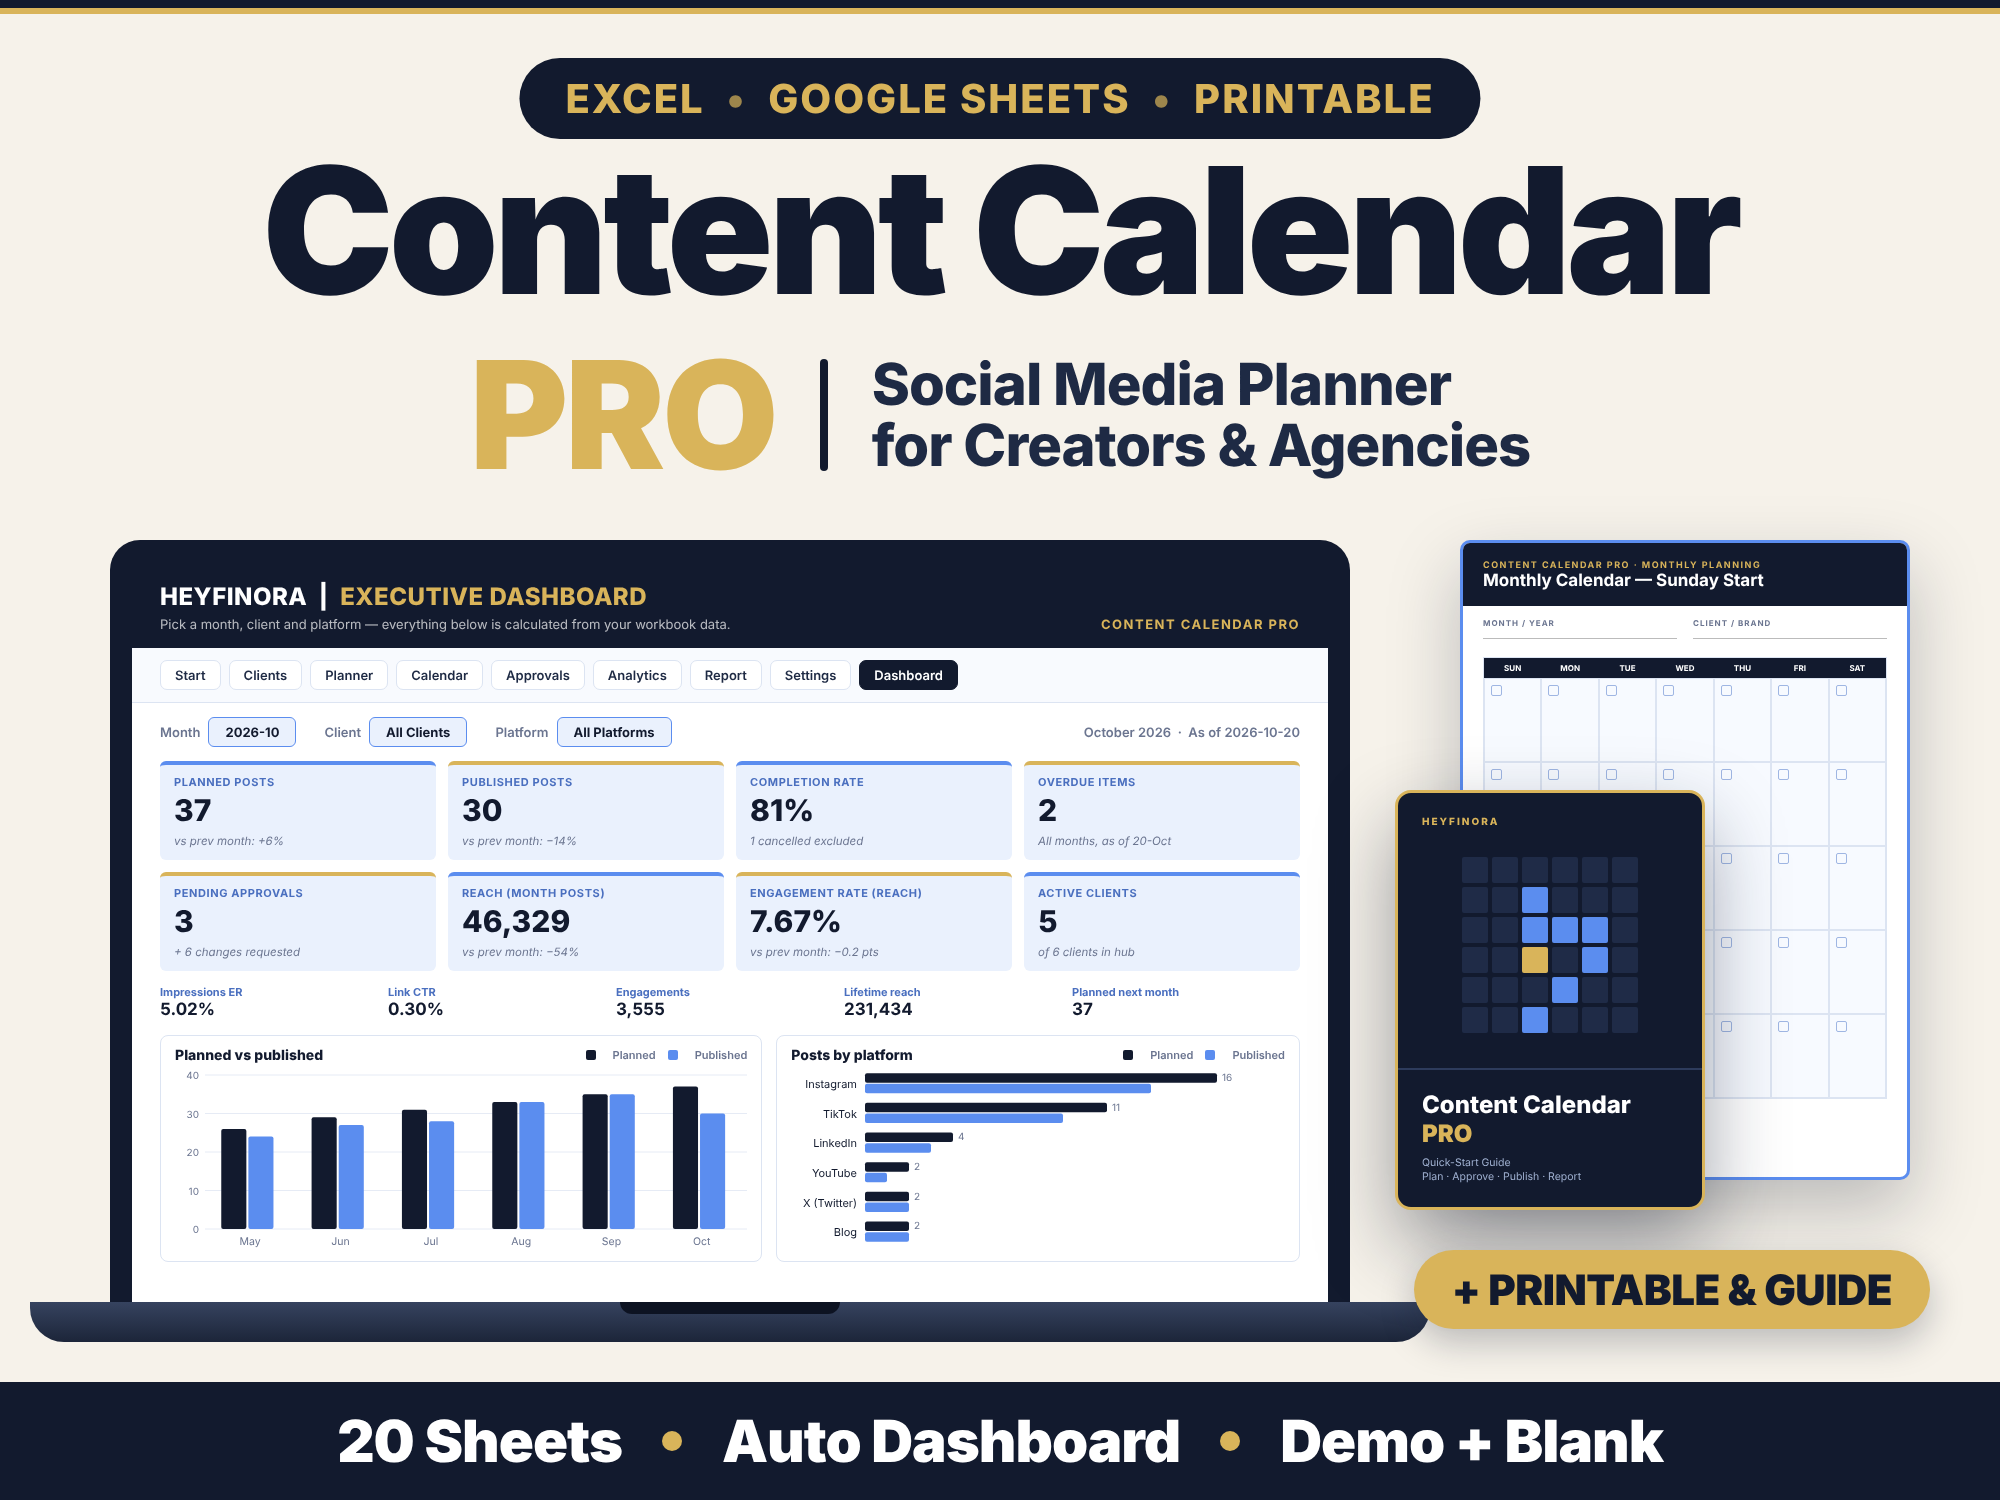
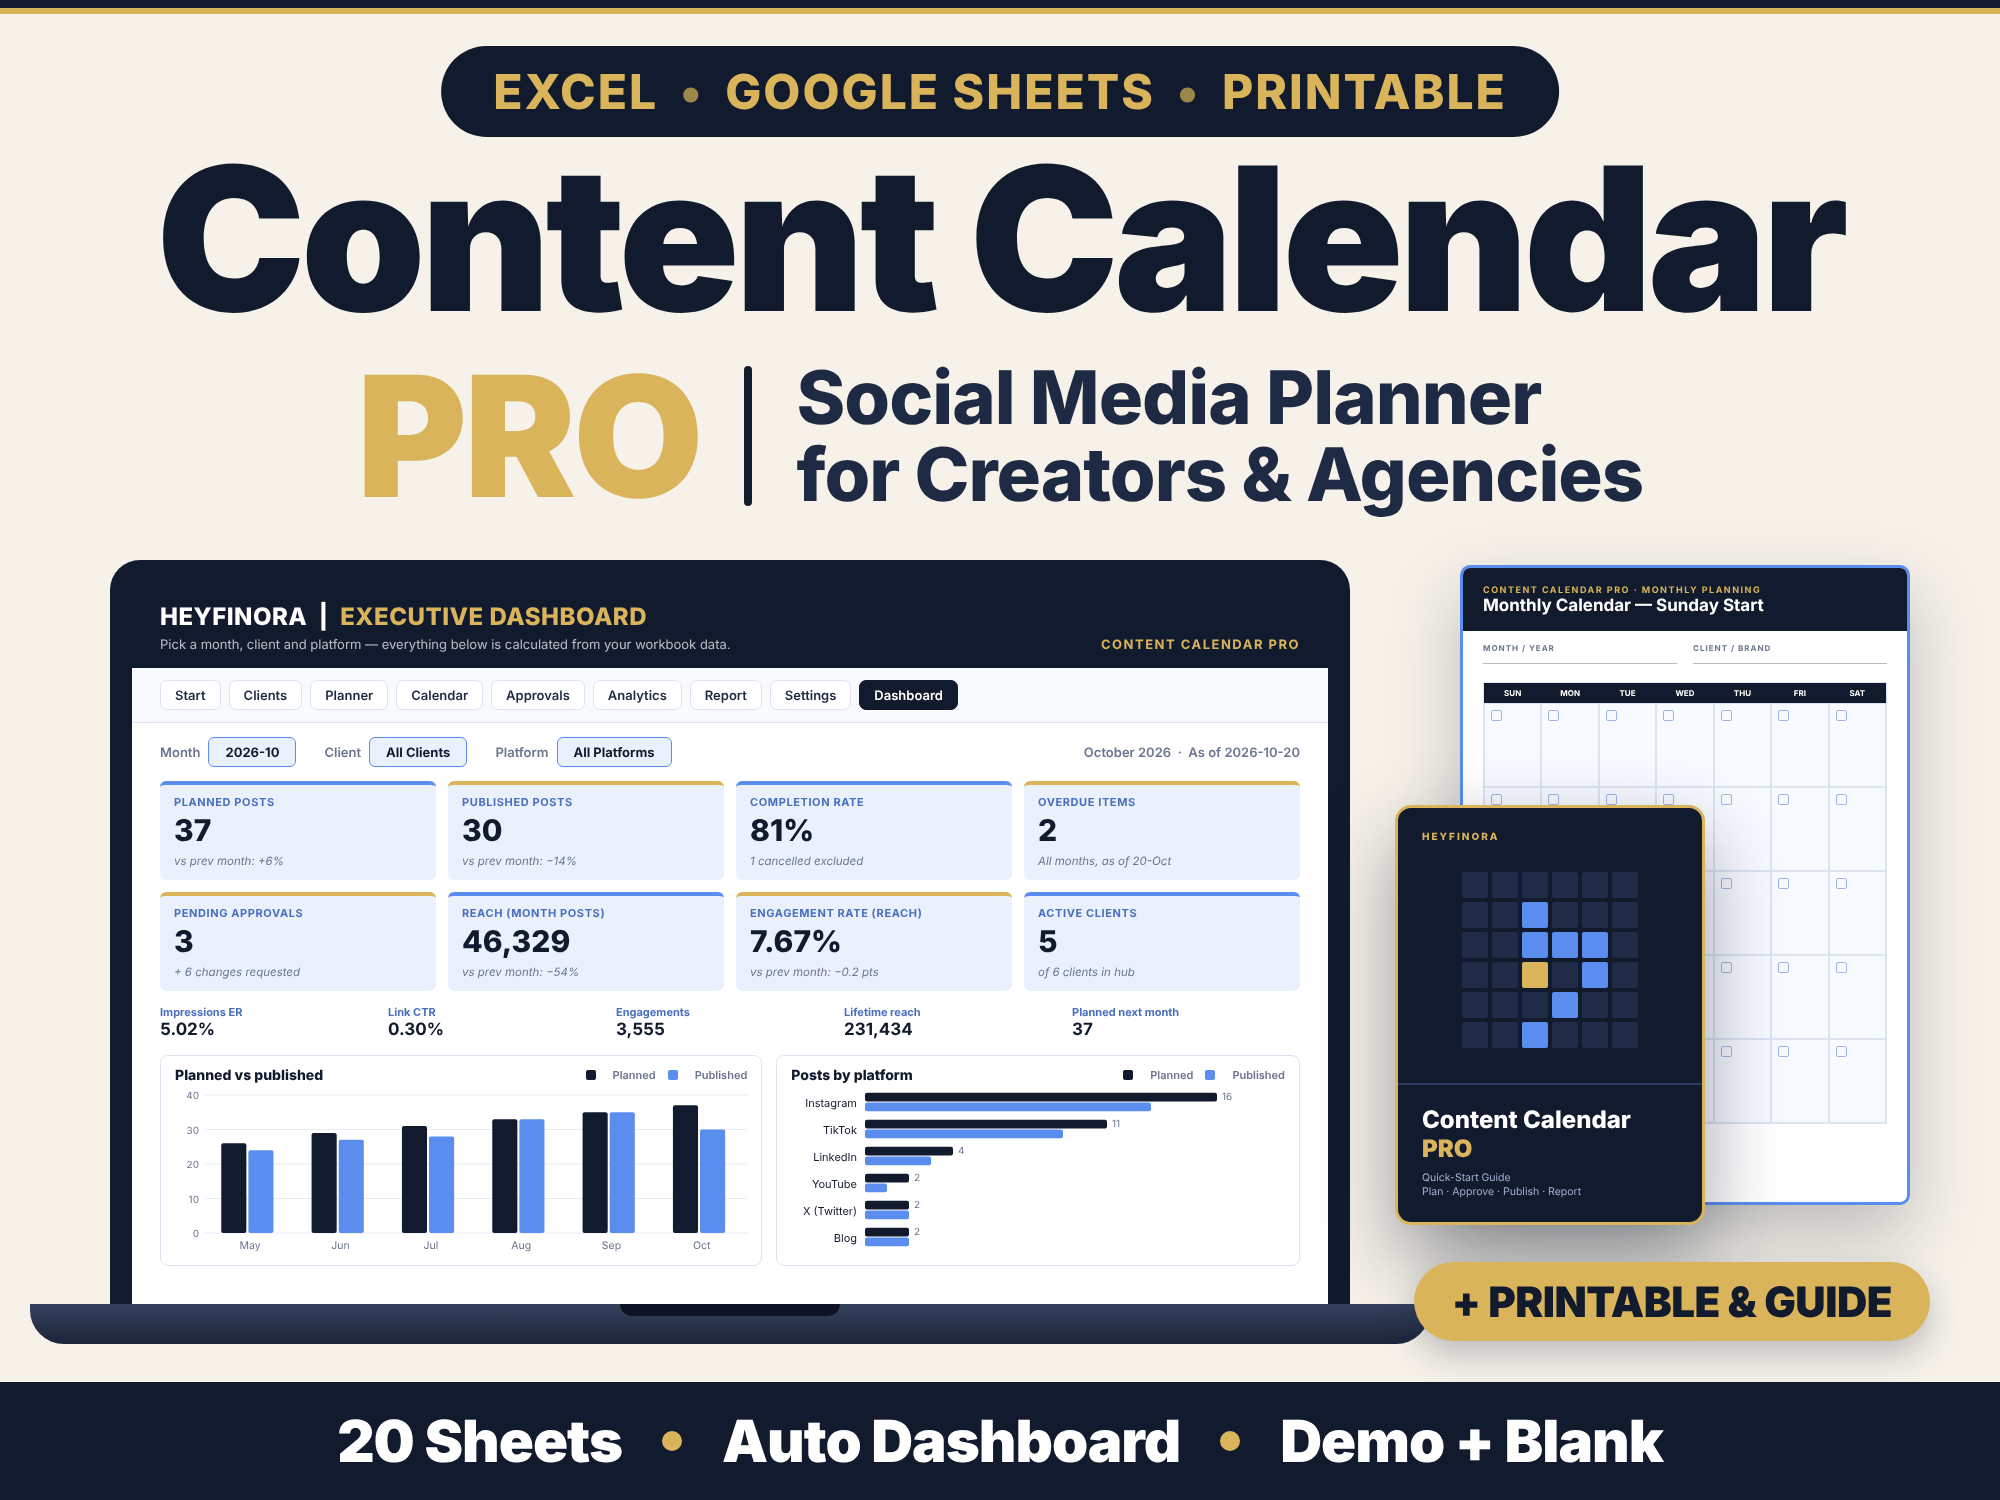
Enlarge cover headline, format chip and tagline
Claude-Session: https://claude.ai/code/session_01KvGLvZgftkXoP78vzexnoR

diff --git a/images/content-calendar-pro/src/cover.html b/images/content-calendar-pro/src/cover.html
@@ -8,19 +8,19 @@ body{background:#777;font-family:Inter,sans-serif;color:var(--navy)}
 .abs{position:absolute}
 /* header */
 .topbar{left:0;right:0;top:0;height:14px;background:var(--navy);border-bottom:6px solid var(--gold)}
-.chip{left:50%;transform:translateX(-50%);top:58px;background:var(--navy);color:var(--gold);border-radius:999px;padding:16px 46px;font-weight:800;font-size:40px;letter-spacing:2px;white-space:nowrap}
+.chip{left:50%;transform:translateX(-50%);top:46px;background:var(--navy);color:var(--gold);border-radius:999px;padding:16px 52px;font-weight:800;font-size:48px;letter-spacing:2px;white-space:nowrap}
 .chip i{font-style:normal;opacity:.7;margin:0 22px}
-.title{left:0;right:0;top:142px;text-align:center;font-weight:900;font-size:176px;letter-spacing:-5px;line-height:1}
-.sub{left:0;right:0;top:340px;display:flex;justify-content:center;align-items:center;gap:44px}
-.pro{font-weight:900;font-size:150px;letter-spacing:-3px;color:var(--gold);line-height:1}
-.sep{width:8px;height:112px;background:var(--navy);border-radius:4px}
-.tag{font-weight:800;font-size:58px;line-height:1.06;color:var(--navy2);letter-spacing:-1px}
+.title{left:0;right:0;top:138px;text-align:center;font-weight:900;font-size:200px;letter-spacing:-5px;line-height:1}
+.sub{left:0;right:0;top:352px;display:flex;justify-content:center;align-items:center;gap:44px}
+.pro{font-weight:900;font-size:168px;letter-spacing:-3px;color:var(--gold);line-height:1}
+.sep{width:8px;height:140px;background:var(--navy);border-radius:4px}
+.tag{font-weight:800;font-size:74px;line-height:1.04;color:var(--navy2);letter-spacing:-1px}
 /* laptop */
-.laptop{left:110px;top:540px;width:1240px}
+.laptop{left:110px;top:560px;width:1240px}
 .screen{background:var(--navy);border-radius:30px 30px 0 0;padding:22px 22px 0}
 .base{height:40px;margin:0 -80px;background:linear-gradient(#36435f,#1c2539);border-radius:0 0 34px 34px;position:relative}
 .base:after{content:"";position:absolute;left:50%;top:0;transform:translateX(-50%);width:220px;height:12px;background:#0d1322;border-radius:0 0 12px 12px}
-.dash{background:#fff;height:740px;overflow:hidden;font-size:15px}
+.dash{background:#fff;height:722px;overflow:hidden;font-size:15px}
 .dh{background:var(--navy);color:#fff;padding:20px 28px 16px;display:flex;justify-content:space-between;align-items:flex-end}
 .dh h3{font-size:24px;font-weight:800;letter-spacing:.5px}.dh h3 span{color:var(--gold)}
 .dh p{font-size:13px;opacity:.7;margin-top:5px}
@@ -47,7 +47,7 @@ body{background:#777;font-family:Inter,sans-serif;color:var(--navy)}
 .sw{display:inline-block;width:10px;height:10px;border-radius:2px;margin-right:5px;vertical-align:-1px}
 svg text{font-family:Inter,sans-serif}
 /* printable sheet */
-.sheet{left:1460px;top:540px;width:450px;height:640px;background:#fff;border-radius:10px;box-shadow:0 30px 70px rgba(18,26,46,.25);overflow:hidden;border:3px solid var(--blue)}
+.sheet{left:1460px;top:565px;width:450px;height:640px;background:#fff;border-radius:10px;box-shadow:0 30px 70px rgba(18,26,46,.25);overflow:hidden;border:3px solid var(--blue)}
 .sheet .sh{background:var(--navy);color:#fff;padding:16px 20px}
 .sheet .sh small{display:block;font-size:9px;letter-spacing:1.5px;color:var(--gold);font-weight:700}
 .sheet .sh b{font-size:17px}
@@ -58,7 +58,7 @@ svg text{font-family:Inter,sans-serif}
 .cal .c{height:84px;border:1px solid var(--line);background:#F7FAFF;position:relative}
 .cal .c:before{content:"";position:absolute;left:6px;top:6px;width:9px;height:9px;border:1px solid #9fb6e3;border-radius:2px}
 /* guide */
-.guide{left:1395px;top:790px;width:310px;height:420px;background:var(--navy);border-radius:16px;box-shadow:0 34px 80px rgba(18,26,46,.4);border:3px solid var(--gold);overflow:hidden}
+.guide{left:1395px;top:805px;width:310px;height:420px;background:var(--navy);border-radius:16px;box-shadow:0 34px 80px rgba(18,26,46,.4);border:3px solid var(--gold);overflow:hidden}
 .guide .lg{position:absolute;left:24px;top:22px;font-size:10px;letter-spacing:2px;color:var(--gold);font-weight:800}
 .grid{position:absolute;left:50%;top:64px;transform:translateX(-50%);display:grid;grid-template-columns:repeat(6,26px);gap:4px}
 .grid i{height:26px;background:#1F2B47;border-radius:2px}
@@ -68,7 +68,7 @@ svg text{font-family:Inter,sans-serif}
 .guide .gt span{color:var(--gold);font-size:24px;font-weight:900}
 .guide .gt p{color:#9fb0d0;font-size:10.5px;margin-top:8px;line-height:1.4}
 /* badge + footer */
-.badge{right:70px;top:1250px;background:var(--gold);color:var(--navy);font-weight:900;font-size:42px;padding:14px 38px;border-radius:999px;box-shadow:0 14px 34px rgba(18,26,46,.25);letter-spacing:-.5px}
+.badge{right:70px;top:1262px;background:var(--gold);color:var(--navy);font-weight:900;font-size:42px;padding:14px 38px;border-radius:999px;box-shadow:0 14px 34px rgba(18,26,46,.25);letter-spacing:-.5px}
 .foot{left:0;right:0;bottom:0;height:118px;background:var(--navy);display:flex;align-items:center;justify-content:center;gap:40px;color:#fff;font-weight:900;font-size:58px;letter-spacing:-1px}
 .foot i{width:20px;height:20px;border-radius:50%;background:var(--gold)}
 </style></head><body>
@@ -108,8 +108,8 @@ svg text{font-family:Inter,sans-serif}
         <div><small>Impressions ER</small><b>5.02%</b></div><div><small>Link CTR</small><b>0.30%</b></div><div><small>Engagements</small><b>3,555</b></div><div><small>Lifetime reach</small><b>231,434</b></div><div><small>Planned next month</small><b>37</b></div>
       </div>
       <div class="charts">
-        <div class="ch"><h4>Planned vs published <span><span><i class="sw" style="background:#121A2E"></i>Planned</span><span><i class="sw" style="background:#5B8DEF"></i>Published</span></span></h4><svg id="c1" width="100%" height="186"></svg></div>
-        <div class="ch"><h4>Posts by platform <span><span><i class="sw" style="background:#121A2E"></i>Planned</span><span><i class="sw" style="background:#5B8DEF"></i>Published</span></span></h4><svg id="c2" width="100%" height="186"></svg></div>
+        <div class="ch"><h4>Planned vs published <span><span><i class="sw" style="background:#121A2E"></i>Planned</span><span><i class="sw" style="background:#5B8DEF"></i>Published</span></span></h4><svg id="c1" width="100%" height="170"></svg></div>
+        <div class="ch"><h4>Posts by platform <span><span><i class="sw" style="background:#121A2E"></i>Planned</span><span><i class="sw" style="background:#5B8DEF"></i>Published</span></span></h4><svg id="c2" width="100%" height="170"></svg></div>
       </div>
     </div></div>
     <div class="base"></div>
@@ -136,14 +136,14 @@ for(let i=0;i<35;i++){const x=document.createElement('div');x.className='c';cal.
 const g=document.getElementById('grid');const on={8:'b',14:'b',15:'b',16:'b',20:'y',22:'b',27:'b',32:'b'};
 for(let i=0;i<36;i++){const x=document.createElement('i');if(on[i])x.className=on[i];g.appendChild(x)}
 // chart 1: vertical grouped bars
-(function(){const s=document.getElementById('c1');const W=s.clientWidth,H=186,L=30,B=22,T=10;
+(function(){const s=document.getElementById('c1');const W=s.clientWidth,H=170,L=30,B=22,T=10;
  const m=['May','Jun','Jul','Aug','Sep','Oct'],p=[26,29,31,33,35,37],u=[24,27,28,33,35,30],max=40;
  for(let v=0;v<=40;v+=10){const y=T+(H-T-B)*(1-v/max);el(s,'line',{x1:L,x2:W,y1:y,y2:y,stroke:'#E6EBF5'});el(s,'text',{x:L-6,y:y+4,'font-size':10,'text-anchor':'end',fill:'#6B7590'},v)}
  const gw=(W-L)/m.length;m.forEach((n,i)=>{const x=L+gw*i+gw*.18,bw=gw*.3;
   [[p[i],'#121A2E'],[u[i],'#5B8DEF']].forEach(([v,c],j)=>{const h=(H-T-B)*v/max;el(s,'rect',{x:x+j*bw,y:H-B-h,width:bw-2,height:h,fill:c,rx:2})});
   el(s,'text',{x:L+gw*i+gw/2,y:H-6,'font-size':10.5,'text-anchor':'middle',fill:'#6B7590'},n)})})();
 // chart 2: horizontal grouped bars
-(function(){const s=document.getElementById('c2');const W=s.clientWidth,H=186,L=74,R=24,T=4,B=4;
+(function(){const s=document.getElementById('c2');const W=s.clientWidth,H=170,L=74,R=24,T=4,B=4;
  const n=['Instagram','TikTok','LinkedIn','YouTube','X (Twitter)','Blog'],p=[16,11,4,2,2,2],u=[13,9,3,1,2,2],max=18;
  const rh=(H-T-B)/n.length;n.forEach((t,i)=>{const y=T+rh*i;el(s,'text',{x:L-8,y:y+rh/2+4,'font-size':11,'text-anchor':'end',fill:'#121A2E'},t);
   [[p[i],'#121A2E'],[u[i],'#5B8DEF']].forEach(([v,c],j)=>{const w=(W-L-R)*v/max;el(s,'rect',{x:L,y:y+rh*.14+j*rh*.36,width:w,height:rh*.32,fill:c,rx:2});
